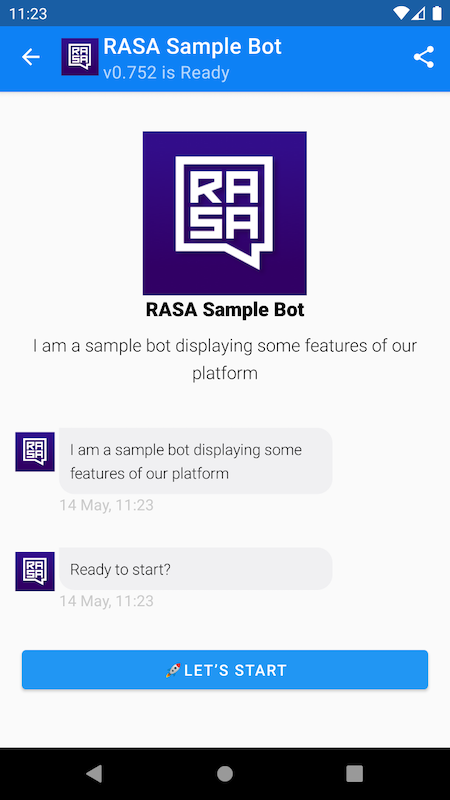
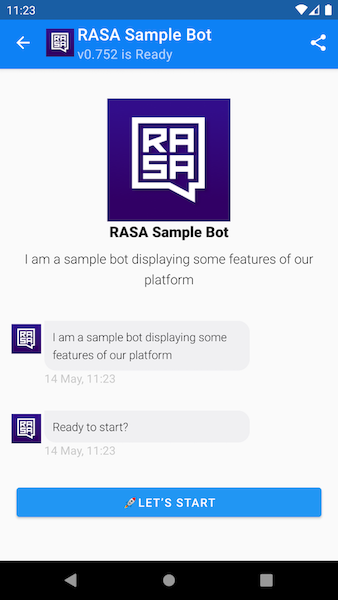
changing the bot web image + added android screenshot

diff --git a/README.md b/README.md
@@ -13,7 +13,7 @@ A [RASA sample web demo](https://ganglia-dev.machaao.com/rasa.sample) has been m
 
 ![image](images/sample_rasa_web_bot.png)
 
-## Android SDK ##
+## Android Sample Screenshot ##
 ![image](images/sample_rasa_android_bot.png)
 
 ## Android / Web - SDK Integration Guide ##
